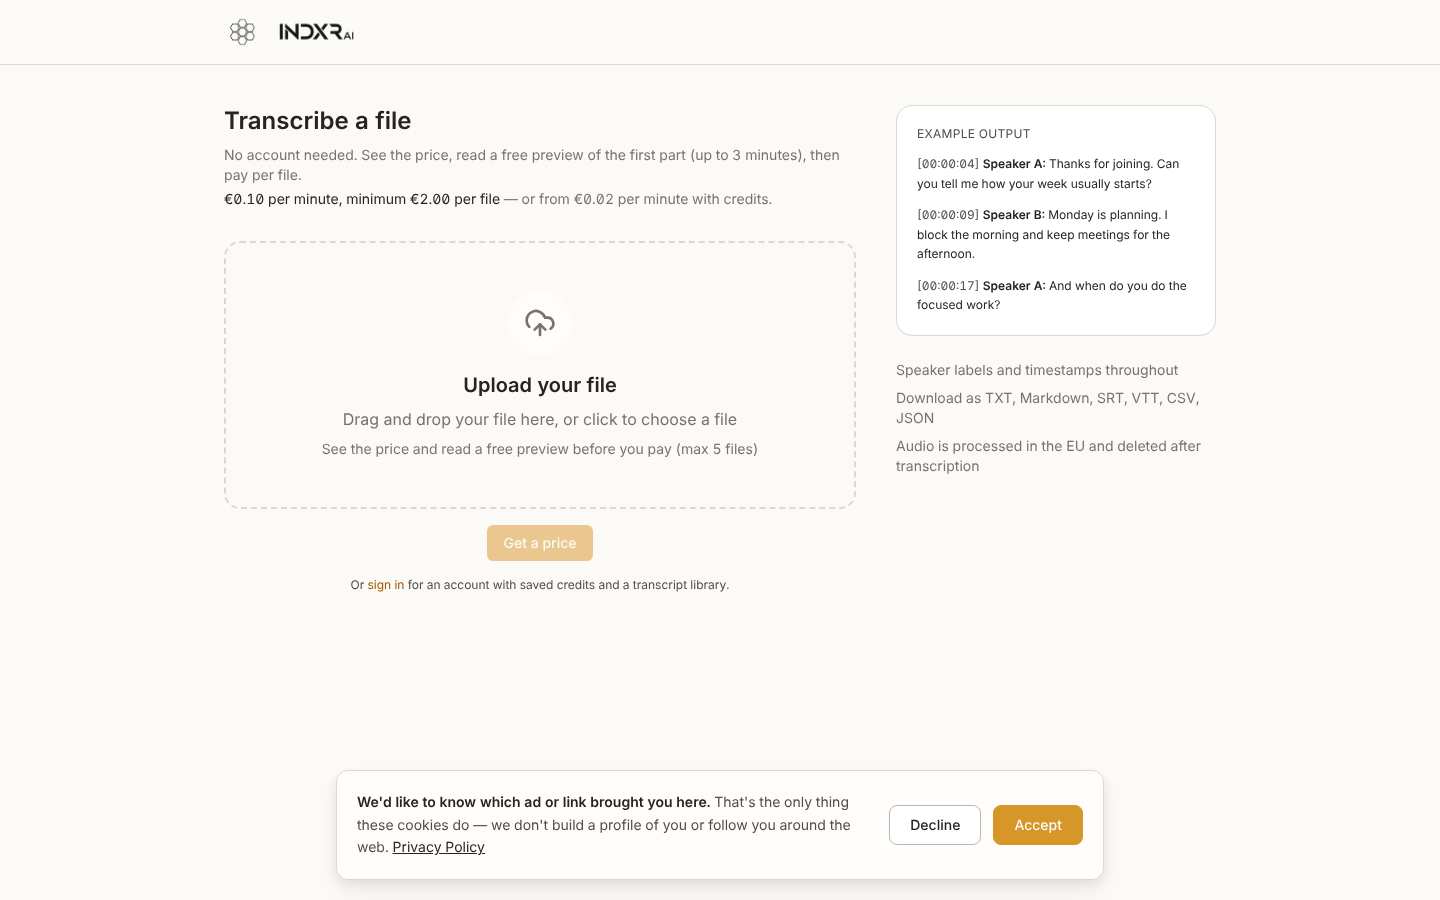
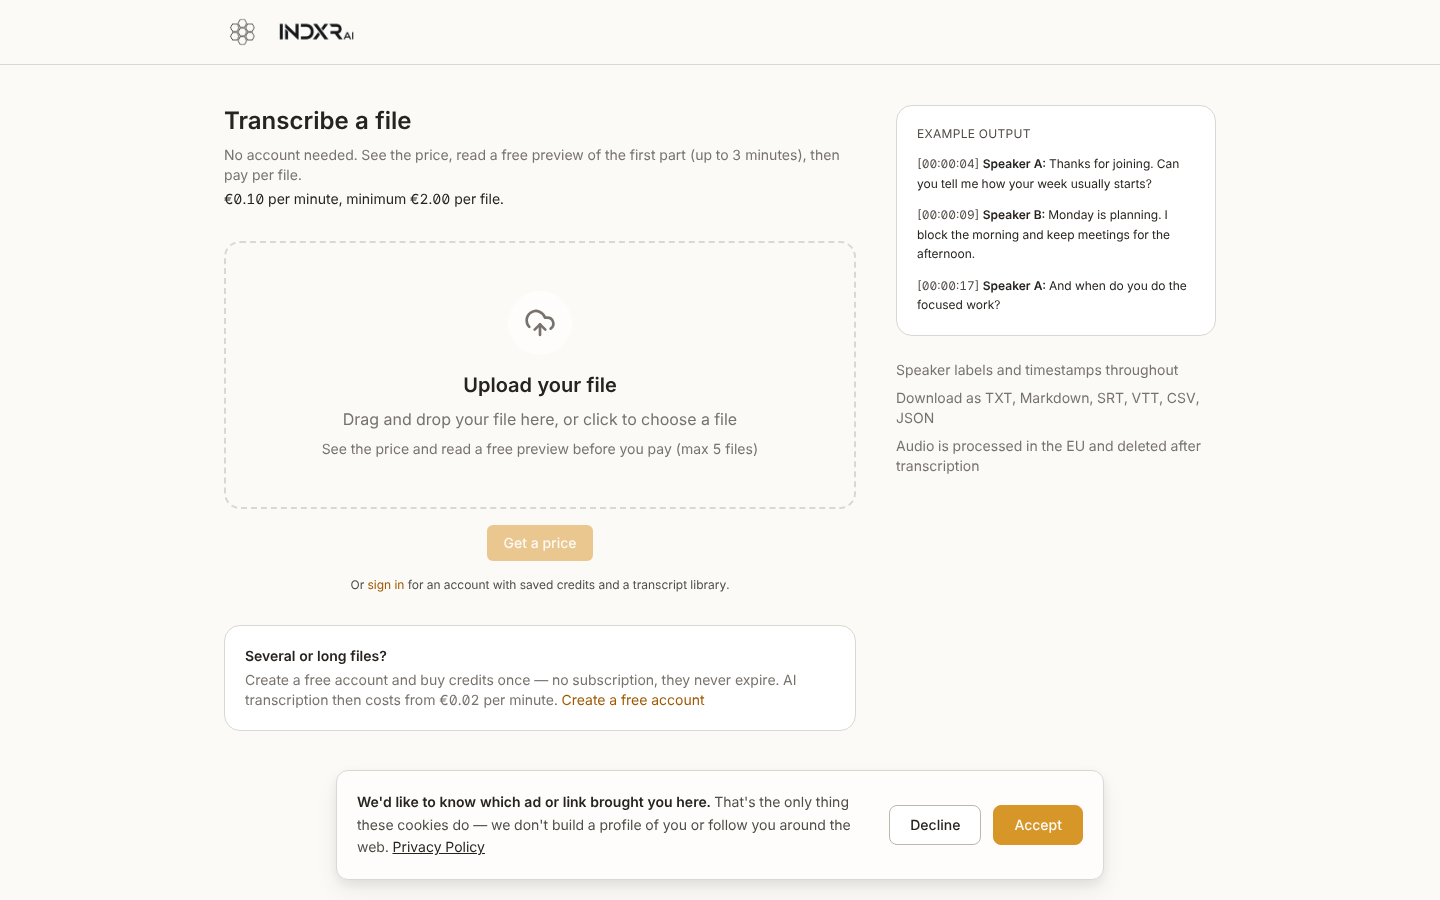
balie: credits-route als aparte kaart onder het uploadvak i.p.v. naast de prijs
Claude-Session: https://claude.ai/code/session_01KYLCeno4fqXJ6K37Rd74Fw

Changed region(s): [[0.1562, 0.7156, 0.5312, 0.7778], [0.375, 0.2178, 0.5312, 0.2489]]

diff --git a/apps/app/src/app/transcribe/page.tsx b/apps/app/src/app/transcribe/page.tsx
@@ -60,10 +60,18 @@ export default function PublicTranscribePage() {
             No account needed. See the price, read a free preview of the first part (up to 3 minutes), then pay per file.
           </p>
           <p className="text-sm text-fg">
-            {formatEurExact(PER_FILE_EUR_PER_MIN)} per minute, minimum {formatEurExact(PER_FILE_MIN_EUR)} per file
-            <span className="text-fg-muted"> — or from {formatEurExact(cheapestPerMin)} per minute with credits.</span>
+            {formatEurExact(PER_FILE_EUR_PER_MIN)} per minute, minimum {formatEurExact(PER_FILE_MIN_EUR)} per file.
           </p>
           <QuickCheckoutPanel />
+          {/* Cheapest route (credits), placed after the upload so it doesn't compete with the per-file price. */}
+          <div className="mt-8 rounded-2xl border border-border bg-surface p-5 text-sm">
+            <p className="font-semibold text-fg mb-1">Several or long files?</p>
+            <p className="text-fg-muted">
+              Create a free account and buy credits once — no subscription, they never expire. AI transcription then
+              costs from {formatEurExact(cheapestPerMin)} per minute.{" "}
+              <a href={marketingHref("/signup")} className="text-[var(--link)] hover:underline">Create a free account</a>
+            </p>
+          </div>
         </div>
 
         <aside className="mt-10 lg:mt-0 space-y-6">

diff --git a/docs/LOG.md b/docs/LOG.md
@@ -1229,3 +1229,4 @@ Co-Authored-By: Claude Sonnet 5 <noreply@anthropic.com>
 
 [2026-11-03 15:40] taak: SEO-hygiëne n.a.v. Ahrefs-crawl 3-11 (door de Claude-piloot, niet Claude Code). (1) SoftwareApplication-schema weg: Google eist daarvoor aggregateRating/review die we niet hebben (nooit verzinnen) — tool-pagina's (ToolPageTemplate) krijgen nu Article (headline, url, auteur, publisher, datums); homepage krijgt WebSite naast Organization (ADR-102-merkonderscheid blijft: zelfde naam + beschrijving); Organization aangevuld met support@indxr.ai, contactPoint en sameAs AlternativeTo. (2) Docs-TechArticles (9) kregen author + publisher (met logo). Quickstart blijft HowTo. (3) Titels ingekort tot ≤60 tekens: srt-generator, youtube-transcripts-vector-database, chunk-youtube-transcripts-for-rag, youtube-video-summarizer, youtube-transcript-not-available. (4) /login, /signup, /forgot-password noindex (staan bewust niet in de sitemap); /login en /forgot-password eigen titel. (5) Meta descriptions: /terms verlengd, docs/account billing/credits/settings ingekort (schema-tekst ongewijzigd). (6) IndexNow: key-bestand in apps/marketing/public + scripts/indexnow-ping.mjs (na deploy draaien; Google gebruikt IndexNow niet). Bewust NIET veranderd: robots.txt (Ahrefs "inconsistent AI training bot policy" = de bewuste Meta-ExternalAgent-blokkade, ADR-077), noindex op docs/account (growth-plan §6.2), redirects. Verificatie: tsc groen; next build marketing groen (lokaal met Google-Fonts-stub omdat de build-omgeving fonts.googleapis.com niet bereikt — stub niet gecommit); next start: JSON-LD-types per pagina en robots-meta gecontroleerd (/: Organization+WebSite; artikel: Article+FAQPage+BreadcrumbList; /login,/signup,/forgot-password: noindex, follow; key-bestand serveert de key). | gewijzigd: apps/marketing/src/components/content/templates/ToolPageTemplate.tsx, apps/marketing/src/app/page.tsx, 5 artikelpagina's, 9 docs-pagina's, docs/account (3), login/signup layout, forgot-password/layout.tsx (nieuw), terms, public/634f84e4….txt (nieuw), scripts/indexnow-ping.mjs (nieuw), docs/LOG.md
 [2026-11-03 16:30] taak: balie-landing /transcribe afgemaakt voor desktop (Google Ads draait sinds 2-11 alleen op desktop; door de Claude-piloot). Merkbalk met logo (link naar indxr.ai), prijsregel vooraf uit pricing.ts ("€0.10 per minute, minimum €2.00 per file — or from €0.02 per minute with credits": goedkoopste route altijd genoemd), rechterkolom op lg+: gelabeld voorbeeld van de uitvoer (sprekerlabels + timestamps, illustratief) en 3 feiten (formatenlijst uit EXPORT_MENU, gratis formaten; EU-verwerking + verwijderen na transcriptie). QuickCheckoutPanel: kop "No account needed" (stond dubbel met de intro) -> "Upload your file", "click" op md+ / "tap" op mobiel, lege-staat-padding p-6 op mobiel (p-12 vanaf sm) zodat de EEA-consentbanner het uploadvak niet afdekt ondanks de nieuwe merkbalk (gemeten iPhone 14: dropzone-onderkant 521px, banner-top 533px; desktop 509 vs 770). Playwright-spec 06 aangepast aan de nieuwe kop. Pagina blijft server component (alles in de eerste HTML). Verificatie: tsc app groen; next build app groen (lokaal met Google-Fonts-stub, niet gecommit — screenshots tonen daardoor een fallbackfont); next start + Playwright-screenshots desktop 1440x900 en iPhone 14 (docs/marketing/screenshots/mobile/*-after3.png). | gewijzigd: apps/app/src/app/transcribe/page.tsx, packages/shared/src/components/free-tool/QuickCheckoutPanel.tsx, tests/playwright/specs/06-quick-checkout-anonymous.spec.ts, docs/marketing/screenshots/mobile/ (2 nieuw), docs/LOG.md
+[2026-11-03 16:50] taak: balie-prijsregel herschikt (feedback Khidr: de credits-zin naast de per-bestand-prijs was verwarrend). Bovenaan alleen "€0.10 per minute, minimum €2.00 per file."; onder het uploadvak een kaart "Several or long files?" met de credits-route (gratis account, credits eenmalig, geen abonnement, vanaf €0.02/min, link naar /signup). Verificatie: tsc groen, next build app groen (font-stub lokaal, niet gecommit), screenshots after3 vernieuwd; banner-overlap mobiel 0 (dropzone 501px vs banner 533px). | gewijzigd: apps/app/src/app/transcribe/page.tsx, docs/marketing/screenshots/mobile/*-after3.png, docs/LOG.md
